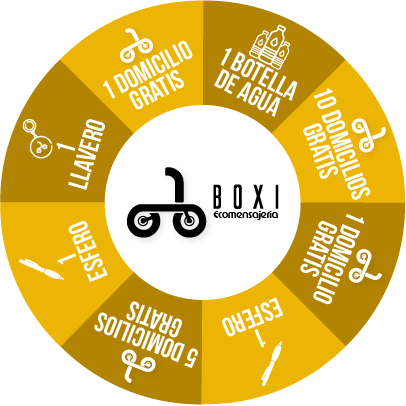
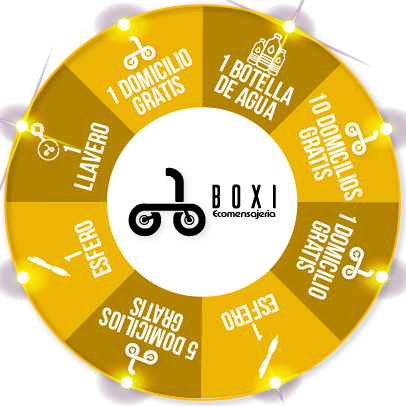
cambio de imagen funcional

Changed region(s): [[0.0, 0.0, 1.0, 1.0], [0.6502, 0.6502, 0.6798, 0.6798]]

diff --git a/css/estilo.css b/css/estilo.css
@@ -4,8 +4,39 @@
 }
 
 body {
-    background:#ffffff;
+    background-image: url("/image/fondo.png");
+    background-size: cover;
+    background-position: center;
+  }
+  
+  /* Media Queries */
+  @media screen and (max-width: 768px) {
+    body {
+      background-image: url("/image/fondo.png");
+    }
+  }
+  
+  @media screen and (max-width: 480px) {
+    body {
+      background-image: url("/image/fondo.png");
+    }
+  }
+  
+
+/* Media Queries */
+@media screen and (max-width: 768px) {
+  body {
+    background-image: url("/image/fondo.png");
+  }
 }
+
+@media screen and (max-width: 480px) {
+  body {
+    background-image: urlurl("/image/fondo.png");
+  }
+}
+
+
 
 .vara {
     width: 0;
@@ -24,10 +55,12 @@ body {
 img {
     z-index: 100;
     transition: all 5s;
+    width: 600px; /* Cambiar el ancho de la imagen a tu gusto */
+
 }
 
 #premio {
-    color: rgb(0, 0, 0);
+    color: rgb(255, 255, 255);
     position: absolute;
     font-weight: bold;
     font-size: 25px;

diff --git a/js/script.js b/js/script.js
@@ -10,8 +10,10 @@ ruleta.addEventListener('click', girar);
 giros = 0;
 
 function girar(){
-  if (giros < 100) {
+  if (giros < 1000) {
+
     let rand = Math.random() * 7200;
+    console.log("el numero principal es:",rand);
     calcular(rand);
     giros++;
     var sonido = document.querySelector('#audio');
@@ -44,8 +46,11 @@ function premio(premios){
 }
 function calcular(rand) {
 
+
   valor = rand / 360;
+  console.log("el numero 1 es:",valor);
   valor = (valor - parseInt(valor.toString().split(".")[0]))* 360;
+  console.log("el numero 2 es:",valor);
   ruleta.style.transform = "rotate("+rand+"deg)";
 
   setTimeout(() => {

diff --git a/index.html b/index.html
@@ -10,9 +10,14 @@
 </head>
 
 <body>
-  <div class="vara"></div>
-    <img src="image/imagen.png" id="ruleta">
+
+  <div class="container">
+    <div class="vara"></div>
+      <img src="image/imagen.png" id="ruleta">
+    </div>
   </div>
+
+
   <div>
     <div id="sonido" style="display: none;">
       <iframe src="sonido/ruleta.mp3" id="audio"></iframe>
@@ -26,7 +31,7 @@
         <td>
           <p class="elije">TE GANASTE:</p>
         </td>
-        <td><img src="image/cortesia.png" class="imgSorpresa"></td>
+        <!-- <td><img src="image/cortesia.png" class="imgSorpresa"></td> -->
       </tr>
       <tr>
         <td>
